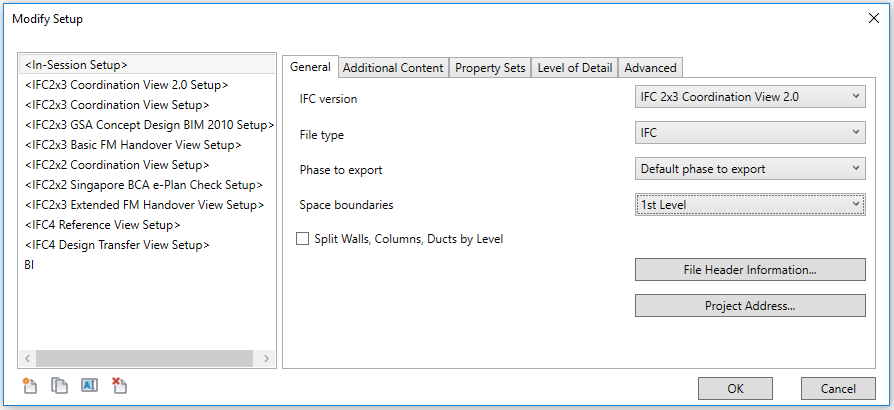
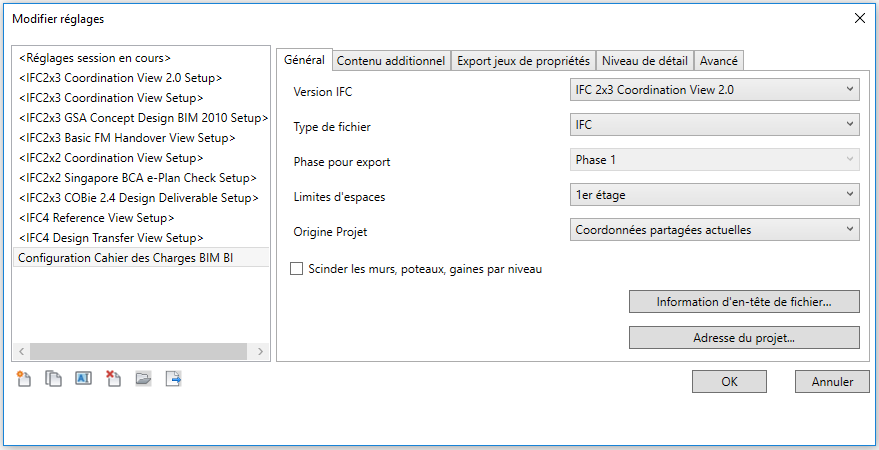
maj configurations export IFC

Changed region(s): [[0.0, 0.0, 1.0, 0.9951]]

diff --git a/templates/softwares/revit.md b/templates/softwares/revit.md
@@ -69,30 +69,37 @@ Ce plug-in remplace les fonctions d’export IFC classique de Revit :
 
 #### Configuration de l'export
 
-Concernant les réglages à effectuer lors de l'export, vous pouvez Télécharger le Setup "Configuration Cahier des Charges BIM BI" fournis par Bouygues Immobilier, et le définir comme setup courant pour vos futures export IFC. Une fois le fichier de configuration téléchargé, 
+Télécharger la configuration "Configuration Cahier des Charges BIM BI" fournie par Bouygues Immobilier, et la définir comme configuration courante pour vos futurs exports IFC. Ensuite,  aller dans l'interface d'export IFC, et cliquer sur l'icône "Importer Configuration" (1), puis dans le dossier de téléchargements, sélectionner le fichier Configuration Cahier des Charges BIM BI (2) et cliquer sur Ouvrir (3). 
+
+![ExportIFCRevit6](/02_Modelisation/00_communs/images/export-rvt/ExportIFCRevit8.PNG)
+
+La Configuration Cahier des Charges BIM BI va alors apparaître dans la liste des configurations disponibles (4). Sélectionnez la, et cliquez sur OK (5).
+
+![ExportIFCRevit6](/02_Modelisation/00_communs/images/export-rvt/ExportIFCRevit9.PNG)
 
 #### Configuration manuelle
 
-_Si vous ne souhaitez pas_
-Vous pouvez également configurer manuelement l'export. Pour cela, lors de l'export IFC, cliquer sur "Modify setup", la fenêtre de configuration de l'export va s'ouvrir. Il est recomandé de créer un nouveau setup, puis de le configurer comme demandé. Pour cela, cliquer sur l'icône "Creat a new setup" en bas à gauche de la fenêtre, renseigner le nom du setup (par exemple, Configuration Cahier des Charges BIM BI), puis régler les paramètres de cette façon: 
+_Si vous ne souhaitez pas utiliser la configuration automatique,_ vous pourvez utiliser les réglages décrit ci-dessous :
 
-| General |
-| :---: |
+Pour configurer manuellement l'export IFC, cliquer sur "Modifier réglages", la fenêtre de configuration de l'export va s'ouvrir. Il est recomandé de créer une nouvelle configuration. Pour cela, cliquer sur l'icône "Créer un nouveau régalge" en bas à gauche de la fenêtre, renseigner le nom de la configuration (par exemple, Configuration Cahier des Charges BIM BI), puis régler les paramètres de la façon suivante:   
+
+| Général |
+| :--- |
 | ![Général](/02_Modelisation/00_communs/images/export-rvt/ExportIFCRevit.PNG) |
 
-| Additional contents |
+| Contenu additionnel |
 | :--- |
 | ![Additional contents](/02_Modelisation/00_communs/images/export-rvt/ExportIFCRevit2.PNG) |
 
-| Property Sets |
+| Export jeux de propriétés |
 | :--- |
 | ![Property Sets](/02_Modelisation/00_communs/images/export-rvt/ExportIFCRevit3.PNG) |
 
-| Level of Detail |
+| Niveau de détail |
 | :--- |
 | ![Level of Detail](/02_Modelisation/00_communs/images/export-rvt/ExportIFCRevit4.PNG) |
 
-| Advanced |
+| Avancé |
 | :--- |
 | ![Advanced](/02_Modelisation/00_communs/images/export-rvt/ExportIFCRevit5.PNG) |
 

diff --git a/templates/procedures/decoupage.md b/templates/procedures/decoupage.md
@@ -20,7 +20,7 @@ Voici un exemple de découpage, d'abord le projet complet constitué de deux bâ
 
 ![decoupageRevit2](/templates/procedures/decoupage-images/decoupageRevit2.PNG)
 
-![decoupageRevit](/templates/procedures/decoupage-images/decoupageRevit.PNG)
+![decoupageRevit](/templates/procedures/decoupage-images/decoupageRevit.PNG)    
 
 {% elif logiciel == "ArchiCAD" %}
 
